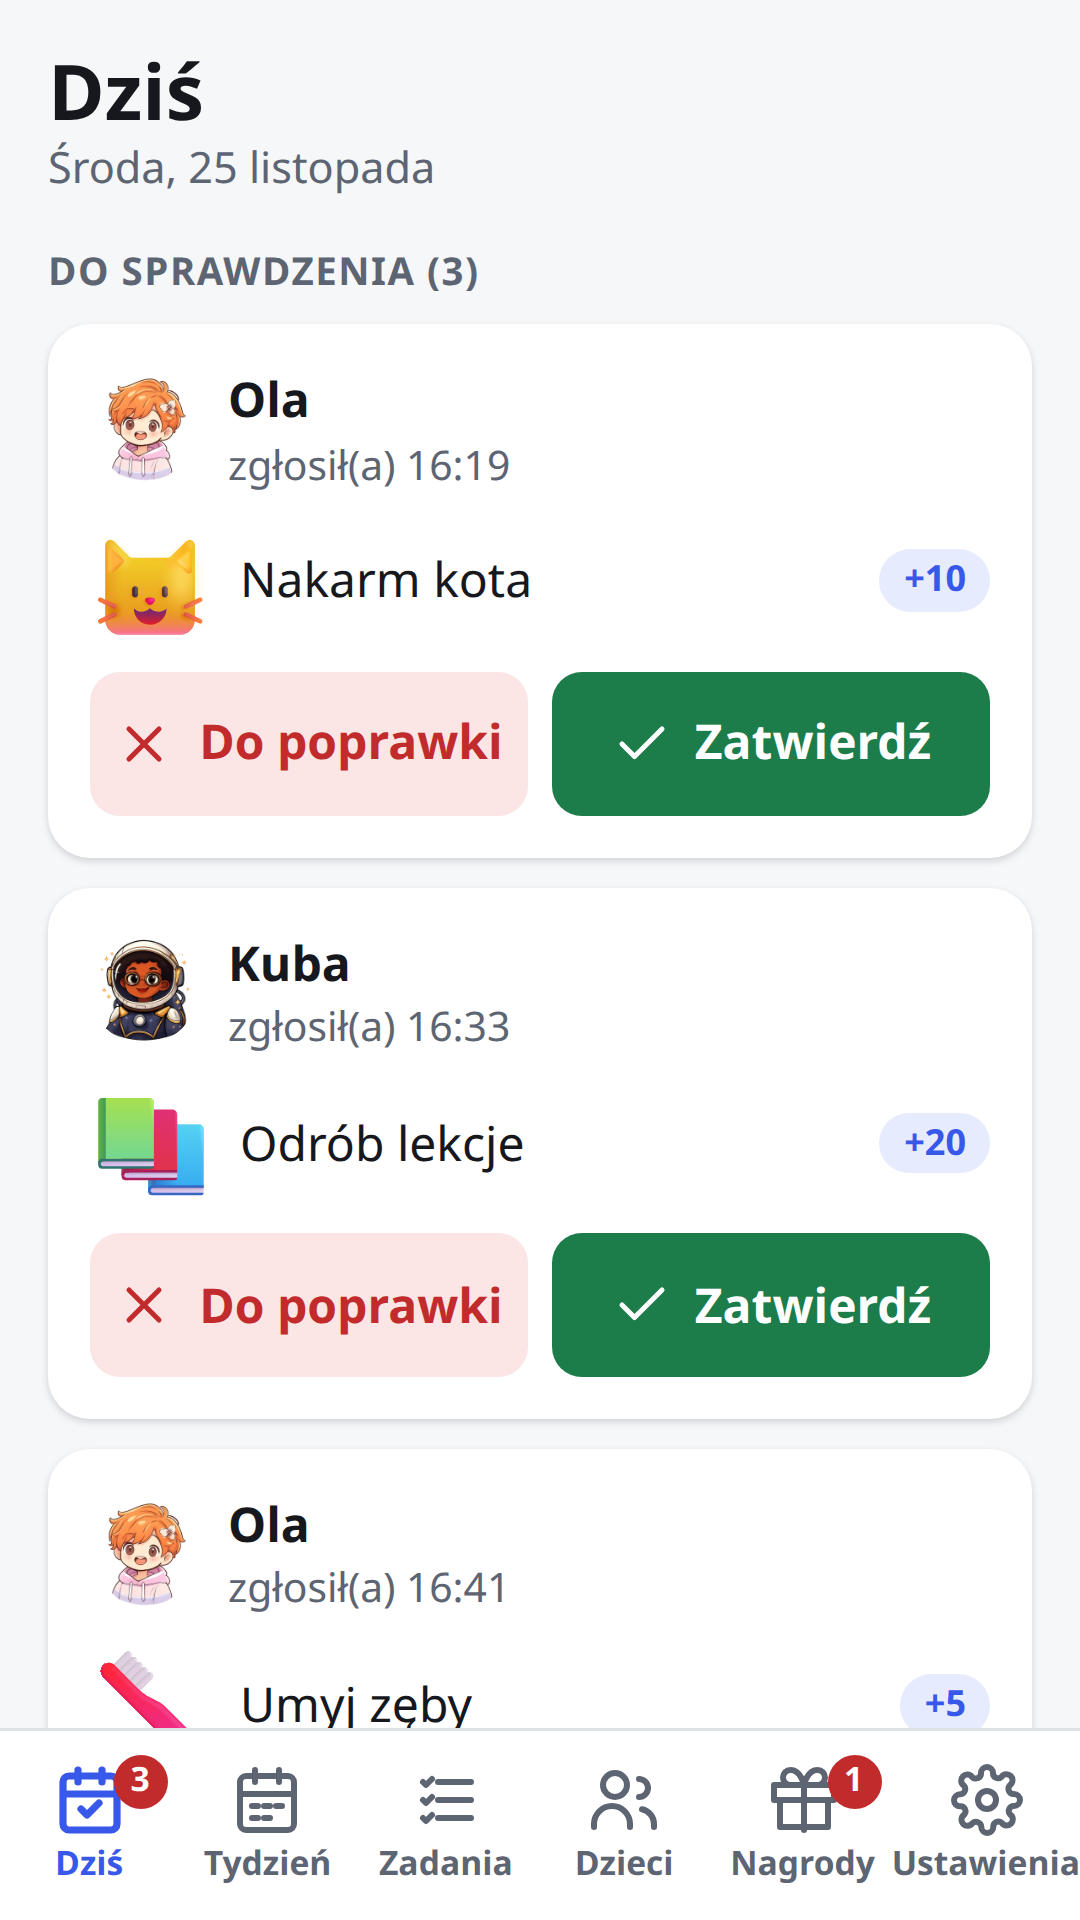
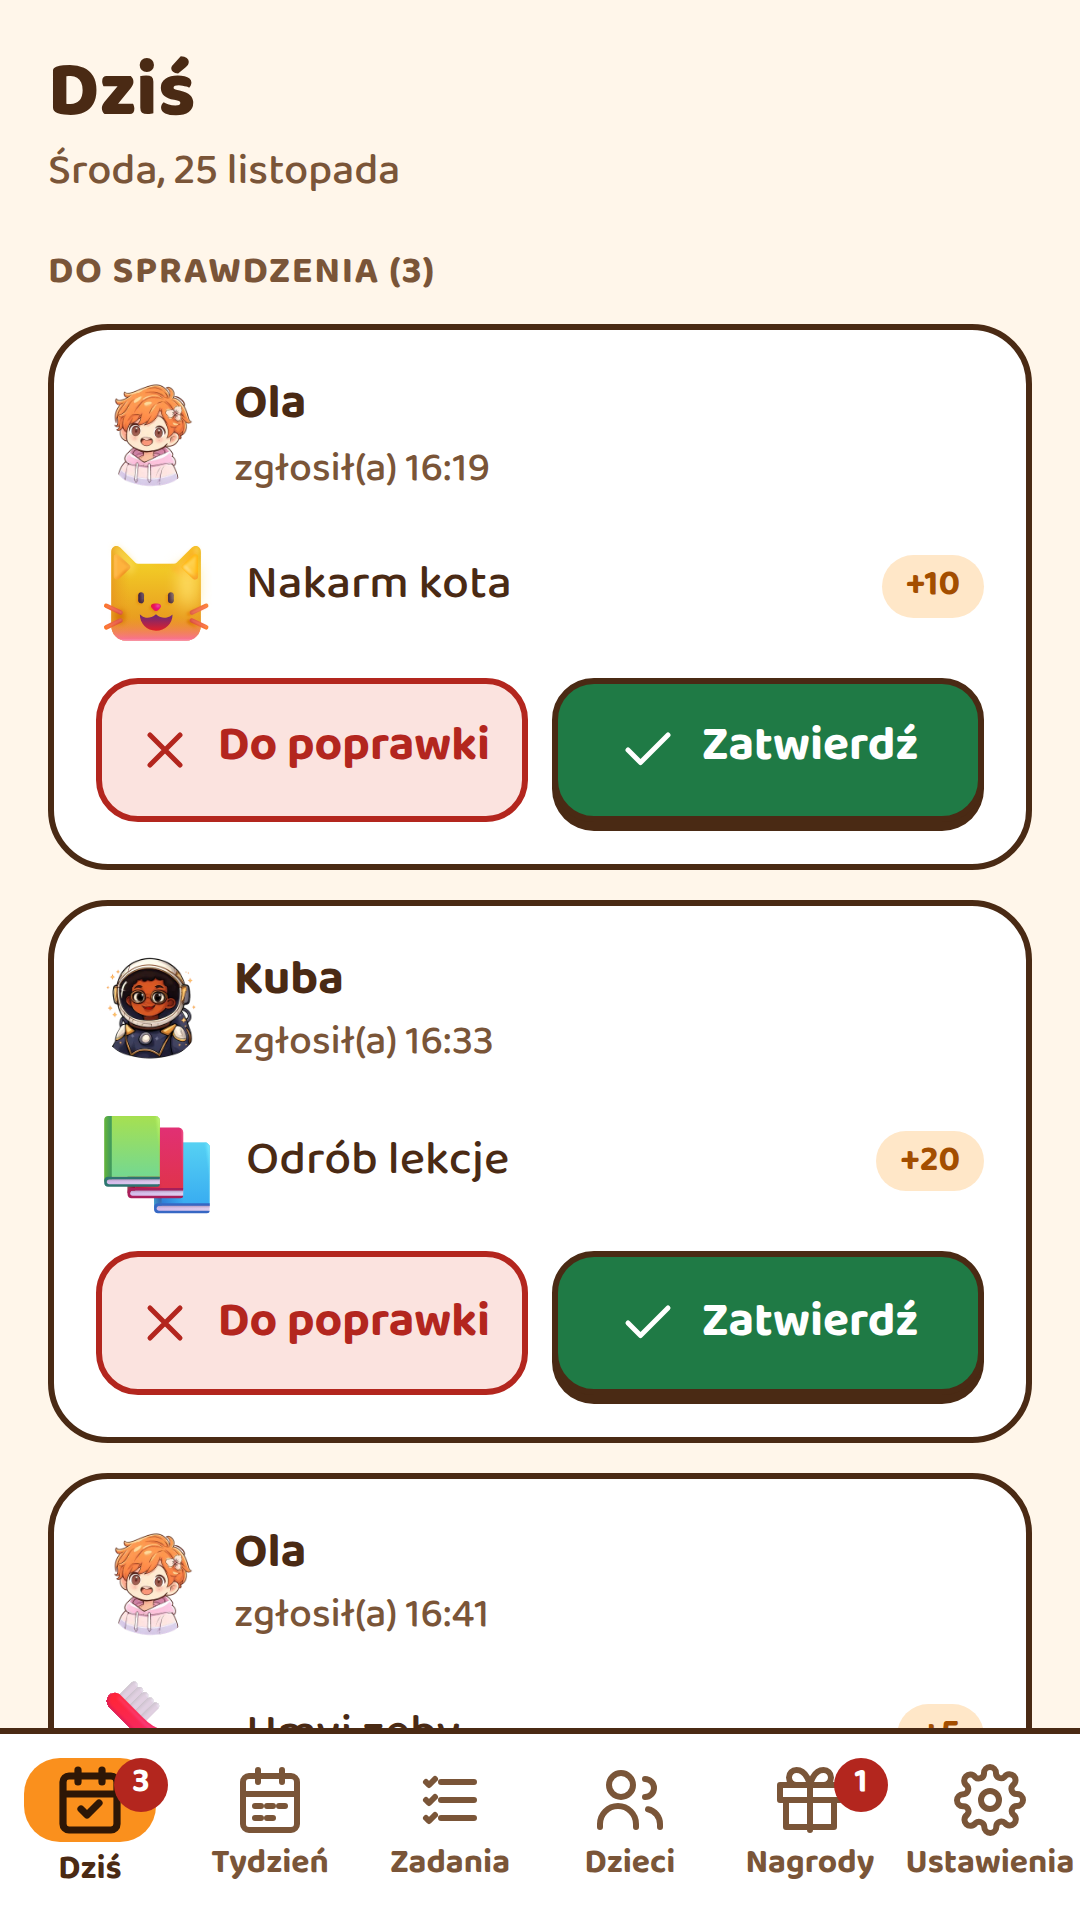
Default look matches the welcome screen

diff --git a/apps/mobile/src/app.css b/apps/mobile/src/app.css
@@ -1,5 +1,6 @@
 /*
- * Base styles. The parent UI uses these neutral tokens; child screens set
+ * Base tokens. The default look (no data-theme) is refined at the end of this
+ * file; child screens set
  * data-theme on their root and every token below is overridden by the theme
  * (src/lib/themes).
  */
@@ -462,4 +463,159 @@ select:focus {
     animation-duration: 0.01ms;
     transition-duration: 0.01ms;
   }
+}
+
+/*
+ * Default look (no data-theme: signed-out screens, adults on the default
+ * style). Matches the app icon and the welcome screen: cream paper, the
+ * icon's orange, warm brown ink, chunky outlines and a flat "press" edge
+ * instead of blurred shadows. The 25 named themes are not affected.
+ * Rules use :where() so they weigh no more than the base rules they refine
+ * and a screen's own scoped styles still win.
+ */
+html:not([data-theme]) {
+  --bg: #fff6ea;
+  --surface: #ffffff;
+  --surface-2: #fcebd3;
+  --text: #4a2a14;
+  --muted: #7a5538;
+  --border: #ecd8bd;
+  --outline: #4a2a14;
+  --field-border: #c9a988;
+  --accent: #fa901d;
+  --accent-text: #2e1706;
+  --accent-soft: #ffe7c8;
+  /* Orange dark enough for text on cream and white (AA). */
+  --accent-ink: #a34e00;
+  --success: #1f7a45;
+  --success-soft: #e1f3e6;
+  --warning: #8a4b00;
+  --warning-soft: #fdecd2;
+  --danger: #b3261e;
+  --danger-soft: #fbe3df;
+  --radius: 20px;
+  --radius-sm: 14px;
+  --shadow: none;
+  --font: 'Baloo 2', system-ui, sans-serif;
+  --font-display: 'Baloo 2', system-ui, sans-serif;
+  --tabbar-active-text: var(--text);
+}
+:where(html:not([data-theme])) a {
+  color: var(--accent-ink);
+}
+:where(html:not([data-theme])) h1 {
+  font-weight: 800;
+}
+:where(html:not([data-theme])) .card,
+:where(html:not([data-theme])) .list {
+  border: 2px solid var(--outline);
+}
+:where(html:not([data-theme])) .btn {
+  font-weight: 700;
+  background: var(--surface);
+  border: 2px solid var(--outline);
+}
+:where(html:not([data-theme])) .btn.primary,
+:where(html:not([data-theme])) .btn.success {
+  box-shadow: 0 3px 0 var(--outline);
+}
+:where(html:not([data-theme])) .btn.primary {
+  background: var(--accent);
+  color: var(--accent-text);
+}
+:where(html:not([data-theme])) .btn.success {
+  background: var(--success);
+}
+:where(html:not([data-theme])) .btn.danger {
+  background: var(--danger-soft);
+  border-color: var(--danger);
+}
+:where(html:not([data-theme])) .btn.ghost {
+  background: transparent;
+  border-color: transparent;
+  color: var(--accent-ink);
+}
+:where(html:not([data-theme])) .btn.primary:active,
+:where(html:not([data-theme])) .btn.success:active {
+  transform: translateY(2px);
+  box-shadow: 0 1px 0 var(--outline);
+}
+:where(html:not([data-theme])) .btn:disabled {
+  transform: none;
+}
+:where(html:not([data-theme])) :is(input, textarea, select):not([type='checkbox'], [type='radio'], [type='range']) {
+  border: 2px solid var(--field-border);
+}
+:where(html:not([data-theme])) :is(input, textarea, select):focus {
+  border-color: var(--outline);
+  box-shadow: 0 0 0 3px color-mix(in srgb, var(--accent) 45%, transparent);
+}
+:where(html:not([data-theme])) .segmented {
+  border: 2px solid var(--outline);
+}
+:where(html:not([data-theme])) .segmented button[aria-pressed='true'] {
+  box-shadow: none;
+  background: var(--accent);
+  color: var(--accent-text);
+}
+:where(html:not([data-theme])) .chip {
+  border: 2px solid var(--field-border);
+}
+:where(html:not([data-theme])) .chip[aria-pressed='true'] {
+  border-color: var(--outline);
+  color: var(--text);
+}
+:where(html:not([data-theme])) .badge.accent,
+:where(html:not([data-theme])) .chip[aria-pressed='true'] svg {
+  color: var(--accent-ink);
+}
+:where(html:not([data-theme])) .badge.accent {
+  background: var(--accent-soft);
+}
+:where(html:not([data-theme])) .tabbar {
+  border-top: 2px solid var(--outline);
+}
+:where(html:not([data-theme])) .tabbar a[aria-current='page'] svg {
+  background: var(--accent);
+  color: var(--accent-text);
+  border-radius: 12px;
+  padding: 2px 10px;
+  box-sizing: content-box;
+}
+
+/*
+ * Signed-out screens (login, register, join, forgot): the welcome screen's
+ * orange band behind the header, so they read as the same place.
+ */
+.screen.auth {
+  position: relative;
+  isolation: isolate;
+}
+.screen.auth::before {
+  content: '';
+  position: absolute;
+  z-index: -1;
+  left: 0;
+  right: 0;
+  top: 0;
+  height: calc(var(--safe-top) + 84px);
+  background: radial-gradient(120% 140% at 50% 20%, #fba72f, #fa901d);
+  border-radius: 0 0 50% 50% / 0 0 22px 22px;
+}
+.screen.auth > .back-header {
+  margin-bottom: 18px;
+}
+.screen.auth > .back-header,
+.screen.auth > .back-header .icon-btn {
+  color: #2e1706;
+}
+/* The app icon as a small mark at the right end of the band. */
+.screen.auth > .back-header::after {
+  content: '';
+  flex: none;
+  width: 40px;
+  height: 40px;
+  border-radius: 12px;
+  border: 2px solid #4a2a14;
+  background: url('/logo.png') center / cover;
 }

diff --git a/apps/mobile/src/lib/themes/pickable.ts b/apps/mobile/src/lib/themes/pickable.ts
@@ -4,16 +4,16 @@ import { THEME_LIST, type ThemeInfo } from './themes.js';
 /** The adults' default: no data-theme, just the base tokens from app.css. */
 export const NEUTRAL: ThemeInfo = {
   id: NEUTRAL_THEME,
-  title: 'Neutralny',
+  title: 'Domyślny',
   dark: false,
   preview: {
-    bg: '#f6f7f9',
+    bg: '#fff6ea',
     card: '#ffffff',
-    accent: '#3858e9',
-    text: '#16181d',
-    font: 'system-ui, sans-serif',
-    radius: '14px',
-    border: '1px solid #dde1e8',
+    accent: '#fa901d',
+    text: '#4a2a14',
+    font: "'Baloo 2', system-ui, sans-serif",
+    radius: '20px',
+    border: '2px solid #4a2a14',
   },
   doneLabel: 'Zatwierdź',
   decorations: '',

diff --git a/apps/mobile/src/routes/join/+page.svelte b/apps/mobile/src/routes/join/+page.svelte
@@ -108,7 +108,7 @@
   }
 </script>
 
-<main class="screen no-tabs">
+<main class="screen no-tabs auth">
   <BackHeader title={info ? (info.kind === 'reset' ? 'Nowe hasło' : 'Witaj!') : addingHome ? 'Dodaj kolejny dom' : 'Dołącz do rodziny'} back={addingHome ? '/child/profile' : '/welcome'} />
 
   {#if !info}

diff --git a/apps/mobile/src/routes/register/+page.svelte b/apps/mobile/src/routes/register/+page.svelte
@@ -42,7 +42,7 @@
   }
 </script>
 
-<main class="screen no-tabs">
+<main class="screen no-tabs auth">
   <BackHeader title="Nowa rodzina" back="/welcome" />
   <p class="muted">Zakładasz rodzinę jako pierwszy rodzic. Drugiego rodzica i dzieci zaprosisz kodem QR.</p>
   <form class="stack" onsubmit={submit}>

diff --git a/apps/mobile/src/routes/login/+page.svelte b/apps/mobile/src/routes/login/+page.svelte
@@ -30,7 +30,7 @@
   }
 </script>
 
-<main class="screen no-tabs">
+<main class="screen no-tabs auth">
   <BackHeader title="Logowanie rodzica" back="/welcome" />
   <form class="stack" onsubmit={submit}>
     <label class="field">

diff --git a/apps/mobile/src/routes/forgot/+page.svelte b/apps/mobile/src/routes/forgot/+page.svelte
@@ -58,7 +58,7 @@
   }
 </script>
 
-<main class="screen no-tabs">
+<main class="screen no-tabs auth">
   <BackHeader title="Nie pamiętam hasła" back="/login" />
 
   {#if step === 'email'}

diff --git a/apps/mobile/src/routes/parent/week/+page.svelte b/apps/mobile/src/routes/parent/week/+page.svelte
@@ -184,7 +184,7 @@
     color: var(--text);
   }
   .grid th.today .dn {
-    color: var(--accent);
+    color: var(--accent-ink, var(--accent));
     font-weight: 800;
   }
   .cell {
